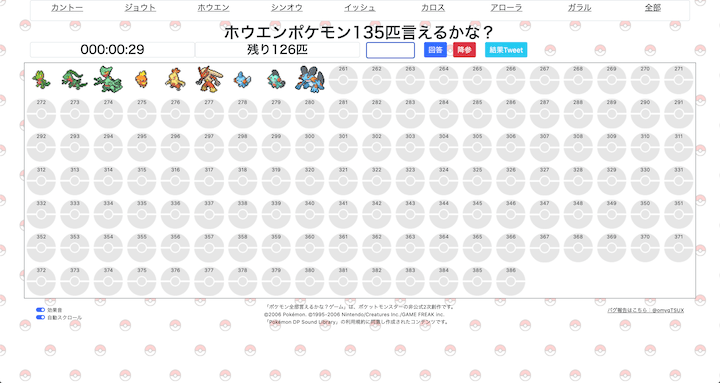
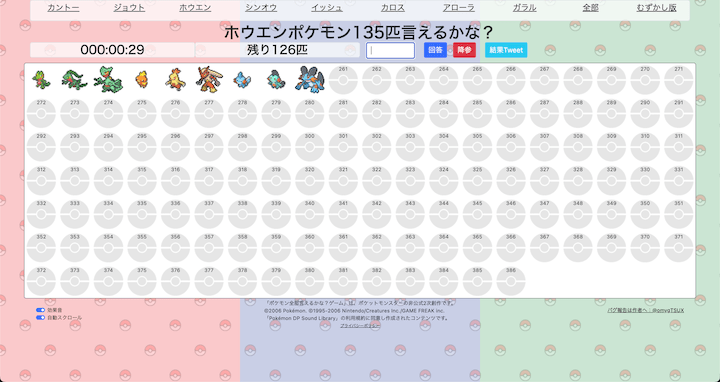
ツイート画像を更新

diff --git a/challengemode.html b/challengemode.html
@@ -9,7 +9,7 @@
     <meta name="twitter:card" content="summary_large_image">
     <meta name="twitter:title" content="ポケモン全部言えるかな？ゲーム(むずかし版)">
     <meta name="twitter:description" content="キミは全ポケモン916匹言えるかな？全ポケモン916匹を答えるタイムアタッククイズゲームのむずかし版にチャレンジしよう！">
-    <meta name="twitter:image" content="https://all-pokemon-ierukana.herokuapp.com/img/system/tweet_all.png">
+    <meta name="twitter:image" content="https://all-pokemon-ierukana.herokuapp.com/img/system/tweet_challenge.png">
     <link href="https://cdn.jsdelivr.net/npm/bootstrap@5.0.0-beta1/dist/css/bootstrap.min.css" rel="stylesheet"
         integrity="sha384-giJF6kkoqNQ00vy+HMDP7azOuL0xtbfIcaT9wjKHr8RbDVddVHyTfAAsrekwKmP1" crossorigin="anonymous">
     <link href="style.css" rel="stylesheet">
